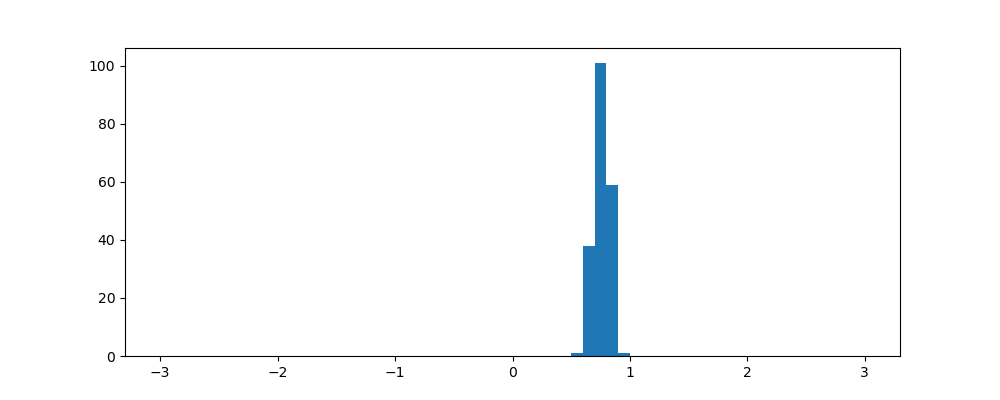
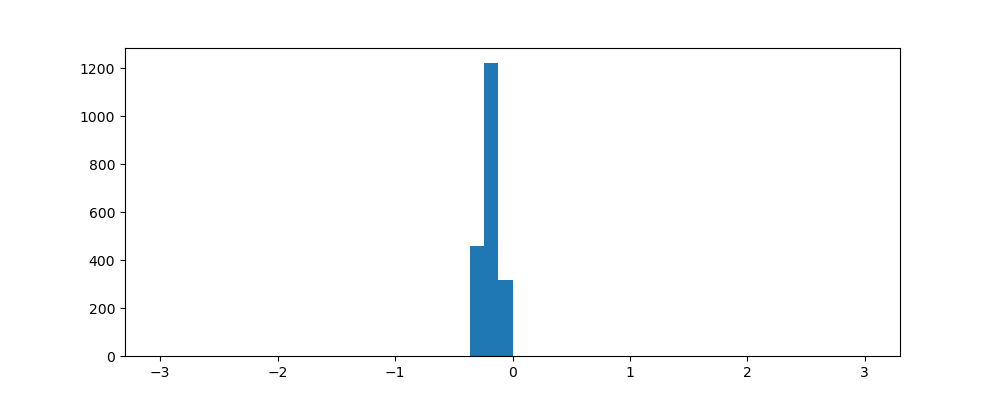
generic commit

diff --git a/scripts/transport/kvae_flow3.py b/scripts/transport/kvae_flow3.py
@@ -87,29 +87,6 @@ class Comp_transport_model:
         return self.submodel_params['mmd_func'](map_vec, target)
 
 
-    def map_mean(self, x_mu, y_eta, y_mean, Lambda_mean, X_mean, fit_kernel):
-        if self.approx:
-            y_mean = geq_1d(torch.tensor(y_mean, device=self.device, dtype=self.dtype))
-        else:
-            y_mean = deepcopy(y_eta)
-        w_mean = torch.concat([x_mu, y_mean], dim=1)
-        z_mean = fit_kernel(X_mean, w_mean).T @ Lambda_mean
-        return z_mean
-
-
-    def map_var(self, x_mu, y_eta, y_mean, Lambda_var, X_var, fit_kernel):
-        if self.approx:
-            y_mean = geq_1d(torch.tensor(y_mean, device=self.device, dtype=self.dtype))
-        else:
-            y_mean = deepcopy(y_eta)
-            y_eta = shuffle(y_eta)
-        w_var = torch.concat([x_mu, y_eta, y_mean], dim=1)
-        Lambda_var = Lambda_var
-
-        z_var = fit_kernel(X_var, w_var).T @ Lambda_var
-        return z_var
-
-
     def param_map(self, step_idx, param_dict):
         Lambda_mean = torch.tensor(self.submodel_params['Lambda_mean'][step_idx],
                                    device=self.device, dtype=self.dtype)
@@ -121,18 +98,23 @@ class Comp_transport_model:
 
         y_eta = geq_1d(torch.tensor(param_dict['y_eta'], device=self.device, dtype=self.dtype))
         x_mu = geq_1d(torch.tensor(param_dict['x_mu'], device=self.device, dtype=self.dtype))
-        y_mean = geq_1d(torch.tensor(param_dict['y_mean'], device=self.device, dtype=self.dtype))
-        y_var = geq_1d(torch.tensor(param_dict['y_var'], device=self.device, dtype=self.dtype))
 
-        z_mean = self.map_mean(x_mu, y_eta, y_mean, Lambda_mean, X_mean, fit_kernel)
-        z_var = self.map_var(x_mu, y_eta, y_mean, Lambda_var, X_var, fit_kernel)
+        if len(param_dict['y_mean']):
+            y_mean = geq_1d(torch.tensor(param_dict['y_mean'], device=self.device, dtype=self.dtype))
+            y_var = geq_1d(torch.tensor(param_dict['y_var'], device=self.device, dtype=self.dtype))
+            x_var = torch.concat([x_mu, y_eta, y_mean], dim=1)
+            z_var = fit_kernel(X_var, x_var).T @ Lambda_var
+        else:
+            y_mean = deepcopy(y_eta)
+            y_var = 0 * y_mean
+            z_var = 0
+
+        x_mean = torch.concat([x_mu, y_mean], dim=1)
+        z_mean = fit_kernel(X_mean, x_mean).T @ Lambda_mean
+        y_eta =  self.noise_shrink_c * shuffle(y_eta)
+
+        y_approx = y_mean + y_var
         z = z_mean + z_var
-
-        y_approx = deepcopy(y_eta)
-        if self.approx:
-            y_approx = y_mean + y_var
-        y_eta = self.noise_shrink_c * shuffle(y_eta)
-
         param_dict = {'y_eta': y_eta, 'y_mean': y_mean + z_mean, 'y_var': y_var + z_var, 'x_mu': x_mu,
                        'y_approx': y_approx + z, 'y': torch.concat([x_mu, y_approx + z], dim=1)}
 
@@ -146,12 +128,10 @@ class Comp_transport_model:
 
 
     def c_map(self, x, y, no_x = False):
-        self.approx = False
-        param_dict = {'y_eta': y, 'y_mean': 0 , 'y_var': 0,
-                       'x_mu': x, 'y_approx': 0, 'y': 0}
+        param_dict = {'y_eta': y, 'y_mean': [] , 'y_var': 0,
+                       'x_mu': x, 'y_approx': None, 'y': None}
         for step_idx in range(len(self.submodel_params['Lambda_mean'])):
             param_dict = self.param_map(step_idx, param_dict)
-            self.approx=True
         if no_x:
             return param_dict['y_approx']
         return param_dict['y']
@@ -268,12 +248,9 @@ class CondTransportKernel(nn.Module):
         return z_mean
 
 
-    def map_var(self, x_mu, y_eta, y_mean, y_var = []):
-        if self.params['approx']:
-            y_mean = geq_1d(torch.tensor(y_mean, device=self.device, dtype=self.dtype))
-        else:
-            y_mean = deepcopy(y_eta)
-            y_eta = shuffle(y_eta)
+    def map_var(self, x_mu, y_eta, y_mean, y_var):
+        if not self.params['approx']:
+            return 0 * y_eta
 
         y_mean = geq_1d(torch.tensor(y_mean, device=self.device, dtype=self.dtype))
         #y_var = geq_1d(torch.tensor(y_var, device=self.device, dtype=self.dtype))
@@ -321,7 +298,11 @@ class CondTransportKernel(nn.Module):
 
 
     def loss_mmd(self):
-        map_vec = torch.concat([self.X_mu, self.Y_approx  + self.Z_mean +  self.Z_var], dim=1)
+        c_var = 1
+        if not self.params['approx']:
+            c_var = 0
+
+        map_vec = torch.concat([self.X_mu, self.Y_approx  + self.Z_mean + (c_var * self.Z_var)], dim=1)
         target = self.Y
 
         mmd_ZZ = self.mmd_kernel(map_vec, map_vec)
@@ -353,6 +334,12 @@ class CondTransportKernel(nn.Module):
         y_var = self.Y_var_test
         target = self.Y_test
         map_vec = self.map(x_mu, y_eta, y_mean, y_var)['y']
+
+        if not self.iters % 2000:
+            clear_plt()
+            save_loc = f'../../data/kernel_transport/spiral_kflow/test_map_gen.png'
+            sample_hmap(map_vec, save_loc, bins=50, bw_adjust=0.25,d=2, range=[[-3, 3], [-3, 3]], vmax=.15)
+            clear_plt()
         return self.mmd(map_vec, target)
 
 
@@ -431,7 +418,7 @@ def train_cond_transport(ref_gen, target_gen, params, N = 1000, n_iter = 1001, p
     ref_sample = ref_gen(N)
     target_sample = target_gen(N)
 
-    N_test = min(10 * N, 7000)
+    N_test = 7000
     test_sample = ref_gen(N_test)
     test_target_sample = target_gen(N_test)
 
@@ -552,7 +539,7 @@ def conditional_transport_exp(ref_gen, target_gen, N = 1000, n_iter = 1001, vmax
      return trained_models, idx_dict
 
 
-def two_d_exp(ref_gen, target_gen, N, n_iter=1001, plt_range=None, process_funcs=[], bins = 60,
+def two_d_exp(ref_gen, target_gen, N, n_iter=1001, plt_range=None, process_funcs=[],
               slice_vals=[], slice_range=None, exp_name='exp', skip_idx=0, vmax=None, n_transports = 70):
     save_dir = f'../../data/kernel_transport/{exp_name}'
     try:
@@ -562,7 +549,7 @@ def two_d_exp(ref_gen, target_gen, N, n_iter=1001, plt_range=None, process_funcs
 
     slice_vals = np.asarray(slice_vals)
     plot_idx = torch.tensor([0, 1]).long()
-    trained_models, idx_dict = conditional_transport_exp(ref_gen, target_gen, N=N, n_iter=n_iter, vmax=vmax, bins = bins,
+    trained_models, idx_dict = conditional_transport_exp(ref_gen, target_gen, N=N, n_iter=n_iter, vmax=vmax,
                                                          exp_name=exp_name, plt_range=plt_range, n_transports = n_transports,
                                                          plot_idx=plot_idx, process_funcs=process_funcs, skip_idx=skip_idx)
     N_plot = min(10 * N, 7000)
@@ -571,7 +558,7 @@ def two_d_exp(ref_gen, target_gen, N, n_iter=1001, plt_range=None, process_funcs
         ref_slice_sample = target_gen(N_plot)
         ref_slice_sample[:, idx_dict['cond'][0]] = slice_val
         slice_sample = compositional_gen(trained_models, ref_sample, ref_slice_sample, idx_dict)
-        plt.hist(slice_sample[:, 1], bins=bins, range=slice_range, label = f'x ={slice_val}')
+        plt.hist(slice_sample[:, 1], bins=50, range=slice_range, label = f'x ={slice_val}')
     plt.savefig(f'{save_dir}/slice_posteriors.png')
     clear_plt()
     return True
@@ -594,7 +581,7 @@ def spheres_exp(N = 5000, n_iter = 101, exp_name = 'spheres_exp', n_transports =
                                exp_name=exp_name, process_funcs=[],cond_model_trainer=comp_cond_kernel_transport,
                                idx_dict= idx_dict, plot_idx= plot_idx, plt_range = plt_range, n_transports = n_transports)
 
-    N_test =  min(10 * N, 15000)
+    N_test =  min(10 * N, 5000)
     slice_vals = np.asarray([[1,.0], [1,.2], [1,.4], [1,.5], [1,.6], [1,.7], [1,.75], [1,.79]])
 
     save_dir = f'../../data/kernel_transport/{exp_name}'
@@ -650,7 +637,7 @@ def vl_exp(N=10000, n_iter=31, Yd=18, normal=True, exp_name='vl_exp'):
                                                          idx_dict=idx_dict, skip_idx=skip_idx, plot_idx=[],
                                                          plt_range=None, n_transports=50)
 
-    N_test =  min(10 * N, 15000)
+    N_test =  min(10 * N, 5000)
     slice_val = np.asarray([.8, .041, 1.07, .04])
     #slice_val = np.asarray([2, .1, 2, .1])
 
@@ -707,9 +694,9 @@ def vl_exp(N=10000, n_iter=31, Yd=18, normal=True, exp_name='vl_exp'):
 def run():
     ref_gen = sample_normal
     target_gen = sample_spirals
-    N = 2000
+    N = 200
     two_d_exp(ref_gen, target_gen, N, n_iter=101, plt_range=[[-3, 3], [-3, 3]], process_funcs=[], skip_idx=1,
-              slice_vals=[0], slice_range=[-3, 3], exp_name='spiral_kflow', n_transports=100, vmax=.15)
+              slice_vals=[0], slice_range=[-3, 3], exp_name='spiral_kflow', n_transports=10, vmax=.15)
 
 
 if __name__=='__main__':

diff --git a/scripts/transport/kvae_flow2.py b/scripts/transport/kvae_flow2.py
@@ -61,8 +61,72 @@ def flip_2tensor(tensor):
     return Ttensor.T
 
 
-
 class Comp_transport_model:
+    def __init__(self, submodels_params, device = None):
+        self.submodel_params = submodels_params
+        self.dtype = torch.float32
+        self.plot_steps = False
+
+        n = len(self.submodel_params['Lambda_mean'])
+        eps = 1e-3
+        self.noise_shrink_c = np.exp(np.log(eps)/(n))
+
+
+        if device:
+            self.device = device
+        else:
+            if torch.cuda.is_available():
+                self.device = 'cuda'
+            else:
+                self.device = 'cpu'
+
+    def mmd(self, map_vec, target):
+        map_vec = torch.tensor(map_vec, device = self.device, dtype=self.dtype)
+        target = torch.tensor(target, device = self.device, dtype=self.dtype)
+        return self.submodel_params['mmd_func'](map_vec, target)
+
+
+    def param_map(self, step_idx, param_dict):
+        Lambda_mean = torch.tensor(self.submodel_params['Lambda_mean'][step_idx],
+                                   device=self.device, dtype=self.dtype)
+        Lambda_var = torch.tensor(self.submodel_params['Lambda_var'][step_idx],
+                                  device=self.device, dtype=self.dtype)
+        fit_kernel = self.submodel_params['fit_kernel'][step_idx]
+        X_mean = torch.tensor(self.submodel_params['X_mean'][step_idx],device=self.device, dtype=self.dtype)
+        X_var = torch.tensor(self.submodel_params['X_var'][step_idx], device=self.device, dtype=self.dtype)
+
+        y_eta = geq_1d(torch.tensor(param_dict['y_eta'], device=self.device, dtype=self.dtype))
+        x_mu = geq_1d(torch.tensor(param_dict['x_mu'], device=self.device, dtype=self.dtype))
+
+        if len(param_dict['y_mean']):
+            y_mean = geq_1d(torch.tensor(param_dict['y_mean'], device=self.device, dtype=self.dtype))
+            y_var = geq_1d(torch.tensor(param_dict['y_var'], device=self.device, dtype=self.dtype))
+            x_var = torch.concat([x_mu, y_eta, y_mean], dim=1)
+            z_var = fit_kernel(X_var, x_var).T @ Lambda_var
+        else:
+            y_mean = deepcopy(y_eta)
+            y_var = 0 * y_mean
+            z_var = 0
+
+        x_mean = torch.concat([x_mu, y_mean], dim=1)
+        z_mean = fit_kernel(X_mean, x_mean).T @ Lambda_mean
+        y_eta =  self.noise_shrink_c * shuffle(y_eta)
+
+        y_approx = y_mean + y_var
+        z = z_mean + z_var
+        param_dict = {'y_eta': y_eta, 'y_mean': y_mean + z_mean, 'y_var': y_var + z_var, 'x_mu': x_mu,
+                       'y_approx': y_approx + z, 'y': torch.concat([x_mu, y_approx + z], dim=1)}
+
+        if self.plot_steps:
+            save_loc = f'../../data/kernel_transport/spiral_kflow/gen_map{step_idx}.png'
+            map_vec = param_dict['y'].detach().cpu().numpy()
+            sample_hmap(map_vec, save_loc, bins=75, bw_adjust= 0.25,
+                    d=2, range=[[-3, 3], [-3, 3]])
+
+        return param_dict
+    
+
+class Comp_transport_model_new:
     def __init__(self, submodels_params, device = None):
         self.submodel_params = submodels_params
         self.dtype = torch.float32
